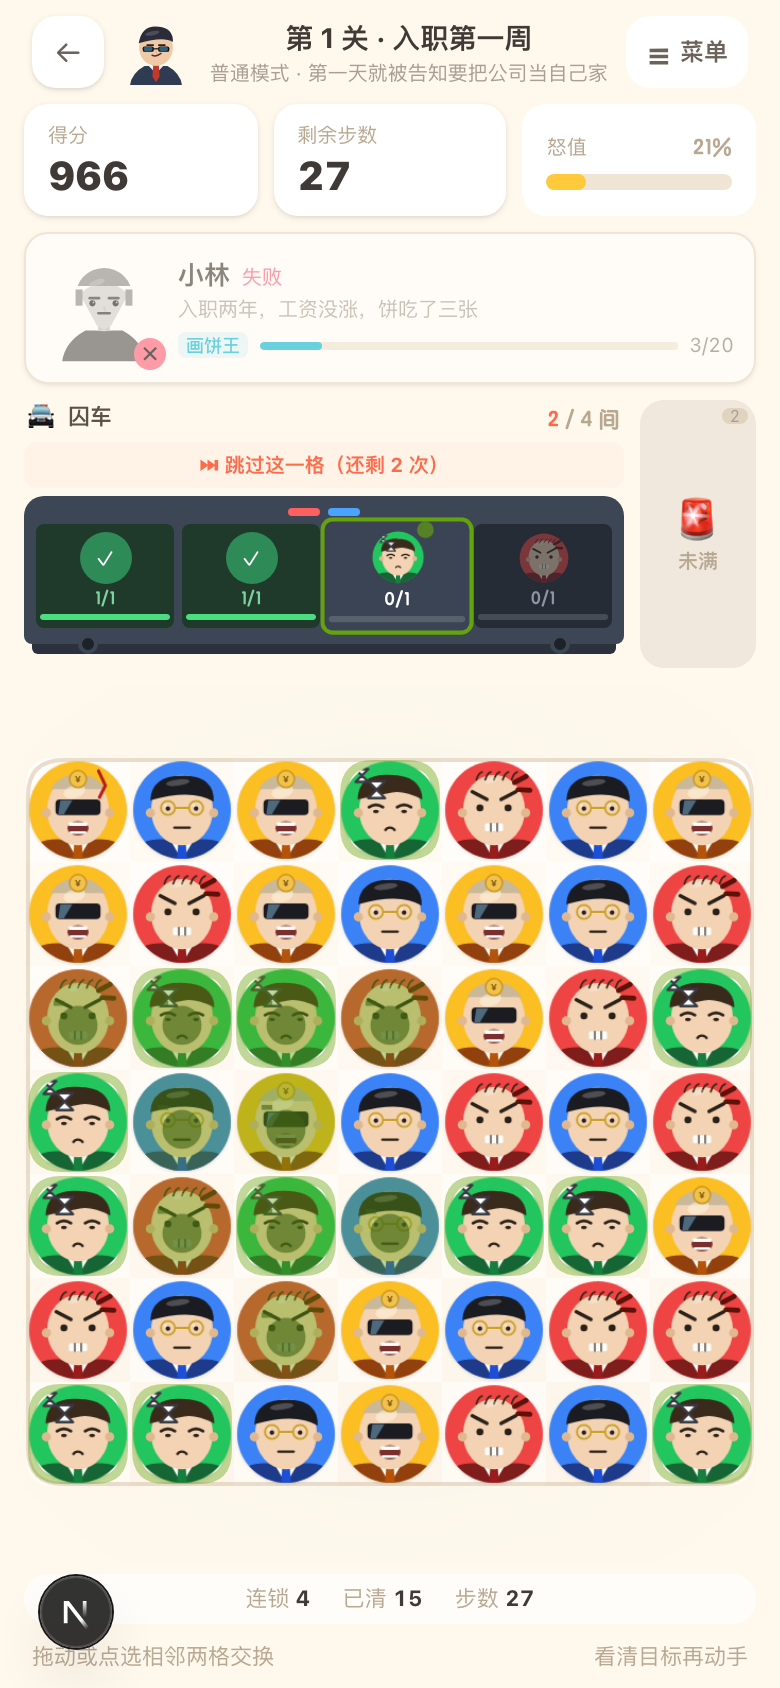
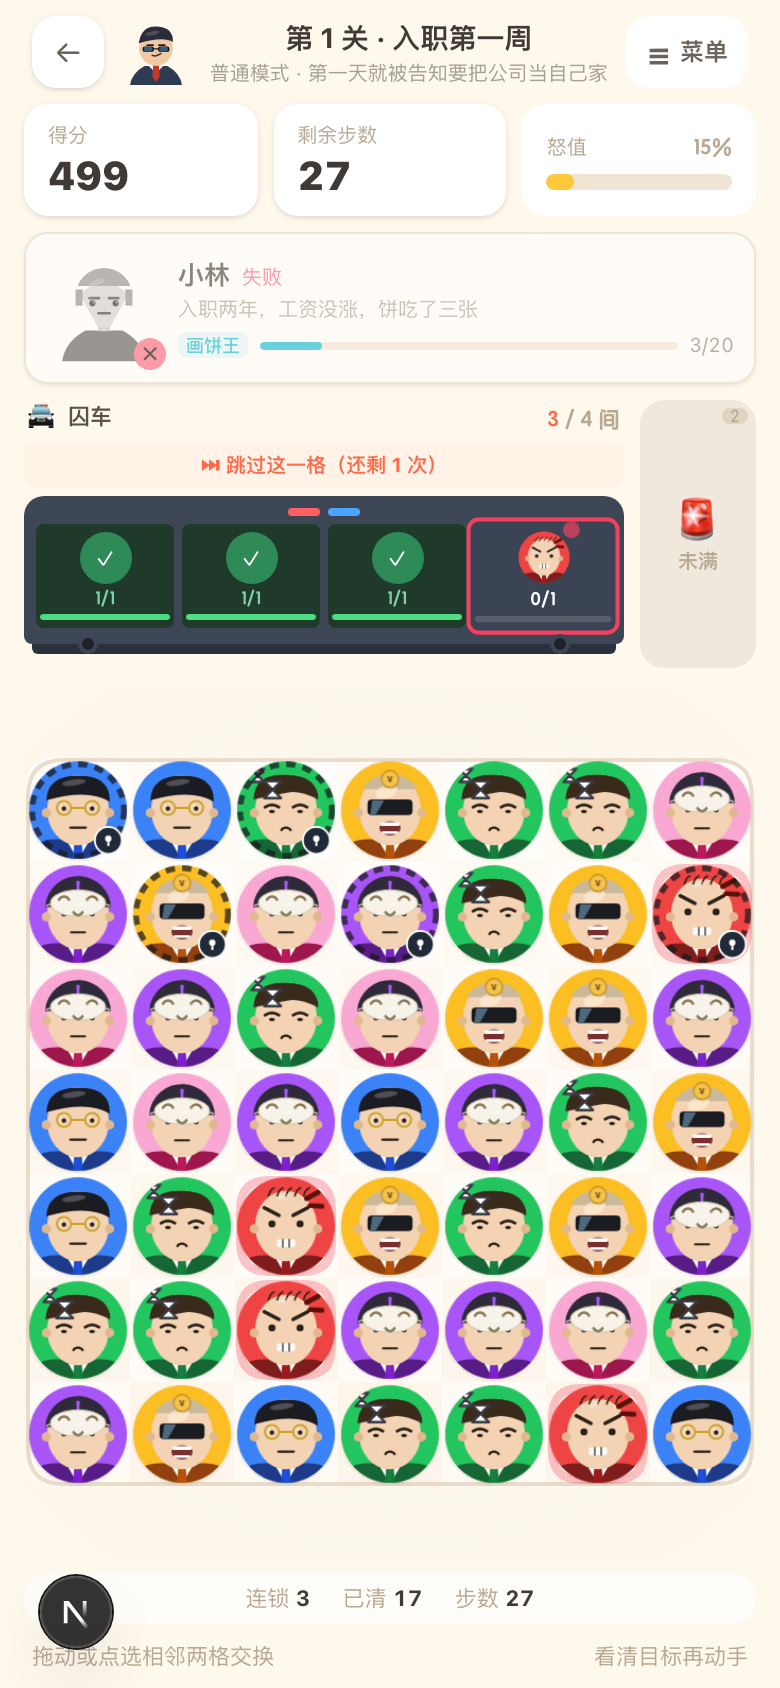
v1.0.2: 严格六色 + 毒雾不再染色
用户反馈「只要六种颜色，怎么出现了别的」。

1. 毒雾不再改变底色
   原来毒雾是在整个头像上盖一层绿色 rgba(101,163,13,.4)，
   导致任何角色中毒后都变绿 —— 和「绿色甩锅侠」撞色，
   棋盘上看起来像多出好几种颜色。
   现在只加虚线内描边 + 右下角小锁标，底色完全不动。

2. 每关都用全部六种：红 / 紫 / 蓝 / 黄 / 绿 / 浅粉
   之前每关只挑 3-5 种，浅粉几乎不出现，看起来颜色也不统一。

diff --git a/packages/game-core/src/levels.ts b/packages/game-core/src/levels.ts
@@ -33,7 +33,7 @@ export const LEVELS: LevelConfig[] = [
     ],
     rows: 7,
     cols: 7,
-    types: ['pua', 'overtime', 'grafter', 'shirk'],
+    types: ['pua', 'shirk', 'grafter', 'overtime', 'formalist', 'flatterer'],
     moves: 30,
     targetSequence: [
       { type: 'pua', need: 1 },
@@ -73,7 +73,7 @@ export const LEVELS: LevelConfig[] = [
     ],
     rows: 7,
     cols: 7,
-    types: ['pua', 'shirk', 'overtime', 'grafter'],
+    types: ['pua', 'shirk', 'grafter', 'overtime', 'formalist', 'flatterer'],
     moves: 34,
     targetSequence: [
       { type: 'pua', need: 1 },
@@ -121,7 +121,7 @@ export const LEVELS: LevelConfig[] = [
     ],
     rows: 7,
     cols: 7,
-    types: ['pua', 'shirk', 'overtime', 'formalist', 'grafter'],
+    types: ['pua', 'shirk', 'grafter', 'overtime', 'formalist', 'flatterer'],
     moves: 32,
     targetSequence: [
       { type: 'pua', need: 1 },
@@ -162,7 +162,7 @@ export const LEVELS: LevelConfig[] = [
     ],
     rows: 7,
     cols: 7,
-    types: ['pua', 'grafter', 'formalist', 'overtime'],
+    types: ['pua', 'shirk', 'grafter', 'overtime', 'formalist', 'flatterer'],
     moves: 32,
     targetSequence: [
       { type: 'grafter', need: 1 },
@@ -204,7 +204,7 @@ export const LEVELS: LevelConfig[] = [
     ],
     rows: 8,
     cols: 7,
-    types: ['pua', 'shirk', 'overtime', 'formalist', 'grafter'],
+    types: ['pua', 'shirk', 'grafter', 'overtime', 'formalist', 'flatterer'],
     moves: 32,
     targetSequence: [
       { type: 'pua', need: 1 },
@@ -254,7 +254,7 @@ export const LEVELS: LevelConfig[] = [
     ],
     rows: 8,
     cols: 7,
-    types: ['shirk', 'grafter', 'formalist', 'overtime', 'pua'],
+    types: ['pua', 'shirk', 'grafter', 'overtime', 'formalist', 'flatterer'],
     moves: 36,
     targetSequence: [
       { type: 'overtime', need: 1 },
@@ -289,7 +289,7 @@ export const LEVELS: LevelConfig[] = [
     ],
     rows: 8,
     cols: 8,
-    types: ['shirk', 'formalist', 'grafter', 'overtime', 'pua'],
+    types: ['pua', 'shirk', 'grafter', 'overtime', 'formalist', 'flatterer'],
     moves: 38,
     targetSequence: [
       { type: 'grafter', need: 1 },
@@ -324,7 +324,7 @@ export const LEVELS: LevelConfig[] = [
     ],
     rows: 8,
     cols: 8,
-    types: ['pua', 'shirk', 'grafter', 'formalist', 'overtime'],
+    types: ['pua', 'shirk', 'grafter', 'overtime', 'formalist', 'flatterer'],
     moves: 38,
     targetSequence: [
       { type: 'formalist', need: 1 },
@@ -360,7 +360,7 @@ export const LEVELS: LevelConfig[] = [
     ],
     rows: 8,
     cols: 8,
-    types: ['shirk', 'formalist', 'grafter', 'overtime', 'pua'],
+    types: ['pua', 'shirk', 'grafter', 'overtime', 'formalist', 'flatterer'],
     moves: 36,
     targetSequence: [
       { type: 'pua', need: 1 },
@@ -396,7 +396,7 @@ export const LEVELS: LevelConfig[] = [
     ],
     rows: 8,
     cols: 8,
-    types: ['pua', 'shirk', 'grafter', 'overtime', 'formalist'],
+    types: ['pua', 'shirk', 'grafter', 'overtime', 'formalist', 'flatterer'],
     moves: 42,
     targetSequence: [
       { type: 'pua', need: 2 },

diff --git a/apps/web/src/game/preload.ts b/apps/web/src/game/preload.ts
@@ -432,16 +432,41 @@ export function drawTileSprite(
   }
 
   // ---- 毒雾（甩锅侠甩出的锅）
+  /**
+   * 毒雾标记 —— **绝不改变底色**。
+   *
+   * 之前是在整个头像上盖一层绿色（rgba(101,163,13,.4)），
+   * 结果每个中毒的领导都变成了绿色，和「绿色甩锅侠」撞在一起，
+   * 棋盘上看起来像多了好几种颜色。
+   *
+   * 现在改成：只加一圈深色内描边 + 右下角一个小「锁」标，
+   * 底色完全不动 —— 玩家靠底色认角色，靠描边认状态。
+   */
   if (poisoned) {
     ctx.save();
-    circle(ctx, cx, cy, r);
-    ctx.clip();
-    ctx.fillStyle = 'rgba(101, 163, 13, 0.4)';
-    ctx.fillRect(cx - r, cy - r, r * 2, r * 2);
-    ctx.fillStyle = 'rgba(63, 98, 18, 0.6)';
-    circle(ctx, cx, cy + r * 0.15, r * 0.4);
+    circle(ctx, cx, cy, r * 0.94);
+    ctx.strokeStyle = 'rgba(24, 24, 28, 0.72)';
+    ctx.lineWidth = size * 0.055;
+    ctx.setLineDash([size * 0.09, size * 0.07]);
+    ctx.stroke();
+    ctx.setLineDash([]);
+
+    // 右下角小锁标
+    const badgeR = size * 0.13;
+    const bx = cx + r * 0.62;
+    const by = cy + r * 0.62;
+    circle(ctx, bx, by, badgeR);
+    ctx.fillStyle = '#1f2937';
     ctx.fill();
-    ctx.fillRect(cx - r * 0.5, cy - r * 0.35, r * 0.22, r * 0.1);
+    ctx.strokeStyle = '#ffffff';
+    ctx.lineWidth = size * 0.018;
+    ctx.stroke();
+
+    // 锁孔
+    ctx.fillStyle = '#ffffff';
+    circle(ctx, bx, by - badgeR * 0.12, badgeR * 0.24);
+    ctx.fill();
+    ctx.fillRect(bx - badgeR * 0.08, by, badgeR * 0.16, badgeR * 0.42);
     ctx.restore();
   }
 
